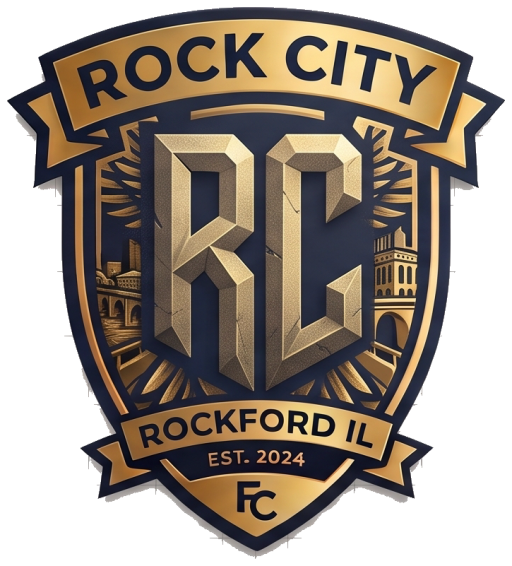
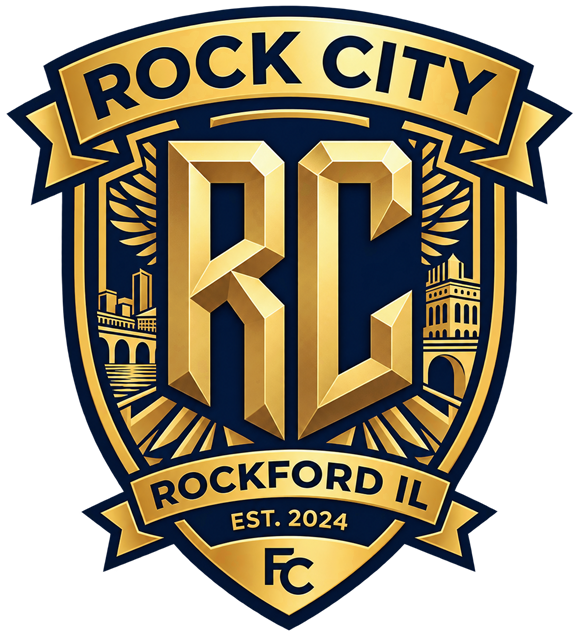
Branding: cleaner hi-res crest + monogram, deep-navy app background, exact brand gold
- Swap in cleaned-up crest/monogram art (favicon/PWA/OG via logo.png on navy square,
  in-app rockcity-crest/-monogram downscaled to ~640px for load speed)
- App background brand-dark #0a0a0a -> Rock City deep navy #0b1a33
- Accent gold #d4af37 -> exact brand gold #c9a24b (index.css, tailwind fallback, DEFAULT_BRAND)
- Kept primary blue #3b82f6 as the interactive/action color (changing it would break
  white-on-gold contrast across 119 solid brand-green buttons)

Verified: vite build passes; login screen renders correctly via local preview
(navy bg + new crest + readable blue CTA).

diff --git a/tailwind.config.js b/tailwind.config.js
@@ -7,12 +7,12 @@ export default {
     theme: {
         extend: {
             colors: {
-                'brand-dark': '#0a0a0a', // Almost black
+                'brand-dark': '#0b1a33', // Rock City deep navy (app background)
                 // Themeable per club via BrandingContext (CSS vars = RGB channels).
                 // Fallback channels = Rockford Fire FC, so it renders identically if unset,
                 // and rgb(... / <alpha-value>) keeps opacity utilities (bg-brand-green/10) working.
                 'brand-green': 'rgb(var(--brand-primary, 59 130 246) / <alpha-value>)',
-                'brand-gold': 'rgb(var(--brand-accent, 212 175 55) / <alpha-value>)',
+                'brand-gold': 'rgb(var(--brand-accent, 201 162 75) / <alpha-value>)',
                 'glass': 'rgba(255, 255, 255, 0.1)',
                 'glass-dark': 'rgba(0, 0, 0, 0.5)',
             },

diff --git a/src/index.css b/src/index.css
@@ -9,8 +9,8 @@
      BrandingContext overrides these per club at runtime; Tailwind reads them via
      rgb(var(--brand-primary) / <alpha-value>) so opacity utilities still work. */
   :root {
-    --brand-primary: 59 130 246; /* #3b82f6 brand-green */
-    --brand-accent: 212 175 55;  /* #d4af37 brand-gold */
+    --brand-primary: 59 130 246; /* #3b82f6 brand-green (interactive/action color) */
+    --brand-accent: 201 162 75;  /* #c9a24b Rock City gold */
   }
   body {
     @apply bg-brand-dark text-white font-sans antialiased;

diff --git a/src/context/BrandingContext.jsx b/src/context/BrandingContext.jsx
@@ -12,8 +12,8 @@ export const DEFAULT_BRAND = {
     name: 'Rock City FC',
     shortName: 'Rock City',
     logoUrl: '/branding/rockcity-crest.png',
-    primaryColor: '#3b82f6', // Tailwind brand-green (channels default in index.css / tailwind.config)
-    accentColor: '#d4af37',  // Tailwind brand-gold
+    primaryColor: '#3b82f6', // Tailwind brand-green (interactive/action color)
+    accentColor: '#c9a24b',  // Tailwind brand-gold (Rock City gold)
     aiPersona: '',
     tagline: '',
 };
